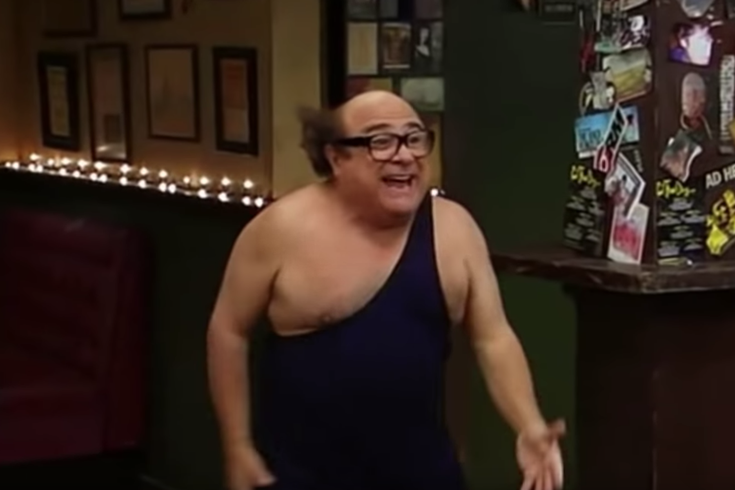
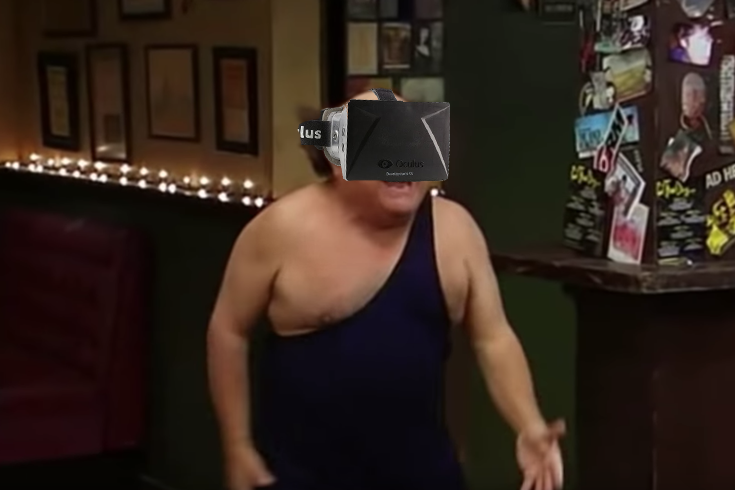
Gave Devito VR

Changed region(s): [[0.3891, 0.1837, 0.6286, 0.398]]

diff --git a/README.md b/README.md
@@ -7,4 +7,6 @@ By default this plugin only enables LowLatency mode in GameCore however most peo
 Want to learn about the different GC modes? Refer to [Microsoft's documentation](https://docs.microsoft.com/en-us/dotnet/standard/garbage-collection/latency)
 
 ***
+![Devito](https://raw.githubusercontent.com/monkeymanboy/BeatSaberTrashMan/master/TheTrashMan/Resources/icon.png)
+
 *ITS MY CHARACTER! I'M THE TRASH MAN! I COME OUT, I THROW TRASH, ALL OVER, ALL OVER THE RING! AND THEN, I START EATING GARBAGE! AND THEN I PICK UP THE TRASH CAN, AND I BASH THE GUY WITH IT!*
